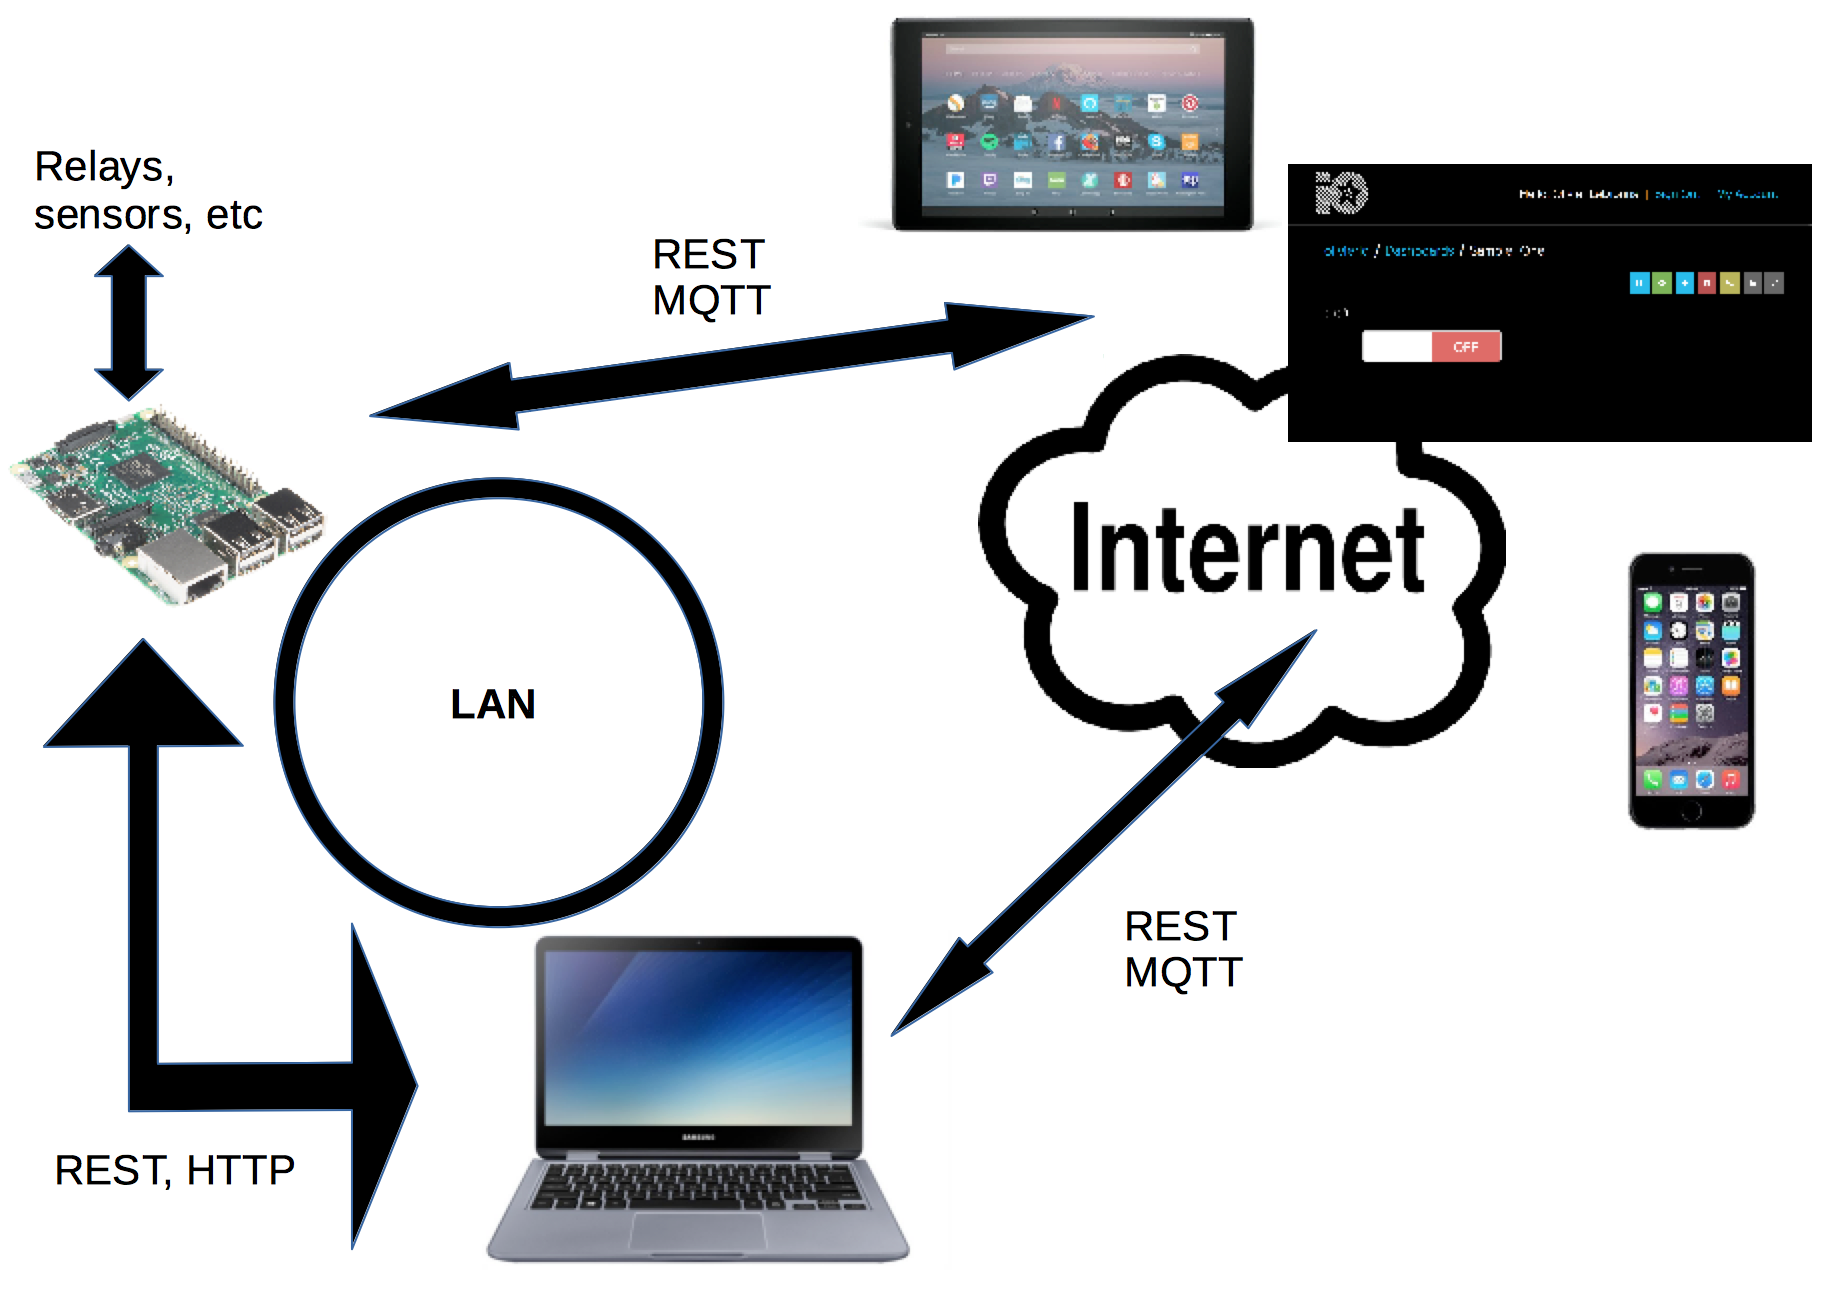
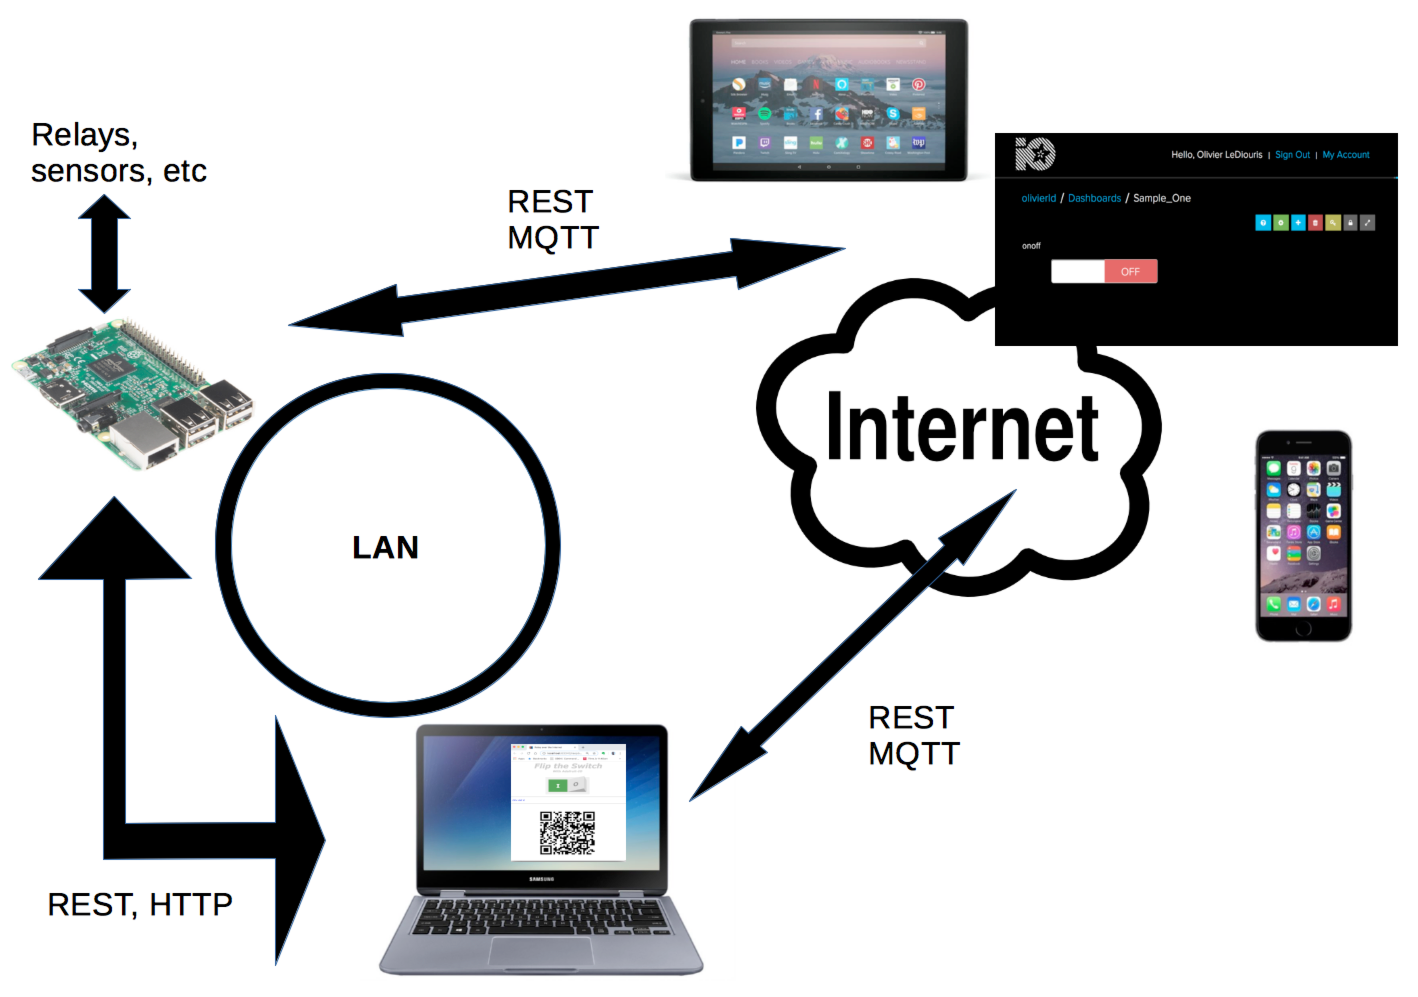
Enriched pictures

diff --git a/Project.Trunk/REST.clients/REST.assembler/web/index.html b/Project.Trunk/REST.clients/REST.assembler/web/index.html
@@ -23,8 +23,10 @@
         <span class="switch-right">O</span> <!-- OFF -->
       </label>
     </p>
-    <!--hr>
-    <address>Oliv did it</address-->
+    <hr style="margin-top: 10px; margin-bottom: 10px;"/>
+    <address style="text-align: left; margin-left: 10px;">Oliv did it</address>
+    <hr style="margin-top: 10px; margin-bottom: 10px;"/>
+    <img src="qr.png">
   </body>
   <script type="text/javascript">
 

diff --git a/Project.Trunk/REST.clients/REST.assembler/README.md b/Project.Trunk/REST.clients/REST.assembler/README.md
@@ -372,9 +372,18 @@ Also, with the RESTServer started (`./start.server.sh`), try http://raspberry-pi
     - Same for any machine anywhere on the Internet
     - Means that it is possible to change the value of a feed, and to be notified of changes.
         - If the Raspberry Pi subscribes to this kind of notification, anyone who changes the status of the `onoff` feed would be able to turn the light connected to the relay on or off.
-- _Note that a web page served by the Raspberry Pi can reach the Adafruit-IO web site using REST._ This is called Cross Origin Resource Sharing (CORS).      
+- _Note that a web page served by the Raspberry Pi can reach the Adafruit-IO web site using REST._ This is called Cross Origin Resource Sharing (CORS).
+
+<!-- 
+  TODO provide a QR code to the Adafruit-IO dashboard
+  https://io.adafruit.com/olivierld/dashboards/sample-one 
+-->      
 
 ## Build a flow using Node-RED
+
+Node-RED will allow you to compose a work-flow, using services.
+This will bring some logic to the data they return.
+This is also called "service orchestration".
 
 Start node-red, on any machine you want, as long as you can see from it the machine(s) the services are running on.
 ```
